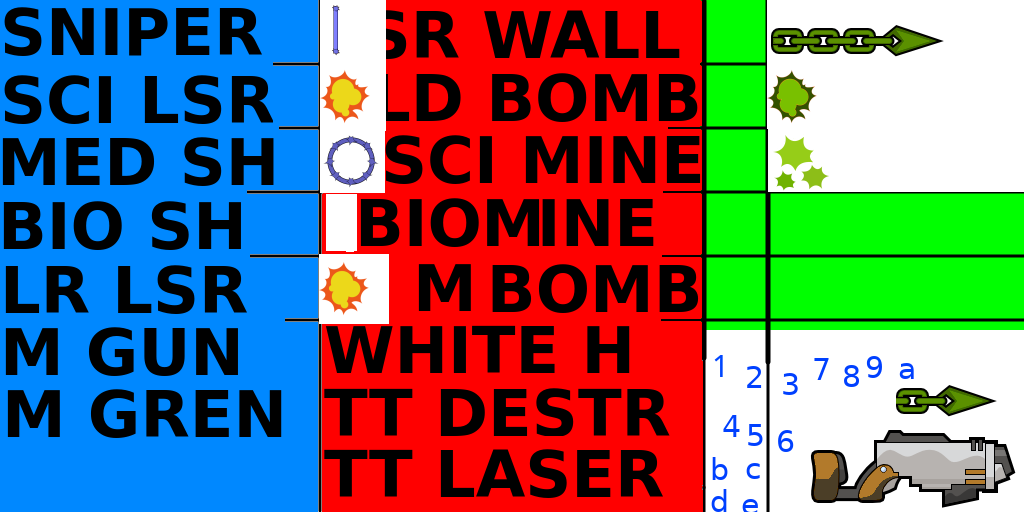
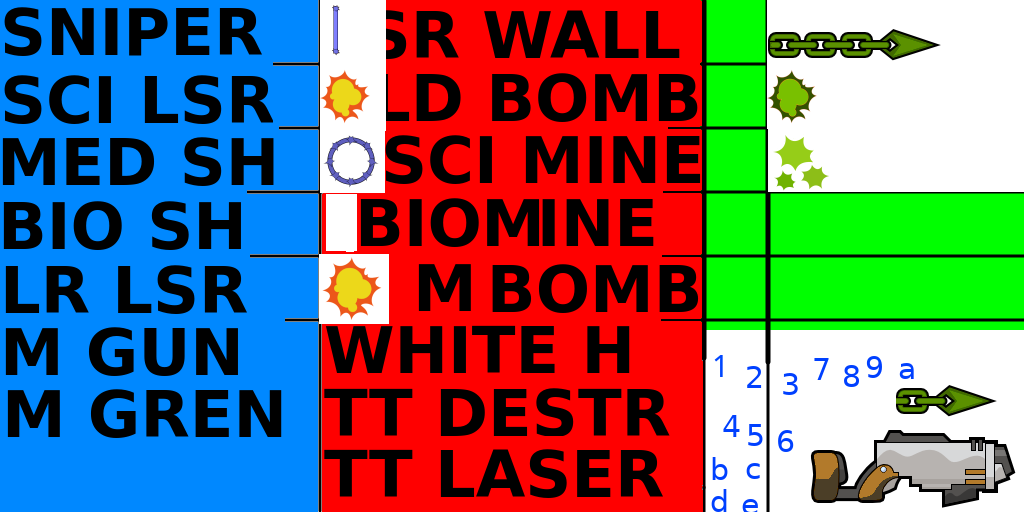
Update inf hook 'weapon' appearance

Changed region(s): [[0.75, 0.0312, 0.9375, 0.125], [0.3125, 0.5, 0.375, 0.625]]

diff --git a/datasrc/content.py b/datasrc/content.py
@@ -375,7 +375,7 @@ container.sprites.Add(Sprite("inf_infection_hammer", set_infclass, 48,12,16,16))
 container.sprites.Add(Sprite("inf_bite", set_infclass, 48,12,16,16))
 container.sprites.Add(Sprite("inf_boomer_explosion", set_infclass, 48,4,3,4))
 container.sprites.Add(Sprite("inf_slug_slime", set_infclass, 48,8,4,4))
-container.sprites.Add(Sprite("inf_drying_hook", set_infclass, 48,0,12,4))
+container.sprites.Add(Sprite("inf_drying_hook", set_infclass, 48,0,11,4))
 container.sprites.Add(Sprite("inf_infection_tile", set_infclass, 48,12,16,4))
 container.sprites.Add(Sprite("inf_game_infection", set_infclass, 48,12,16,4))
 
